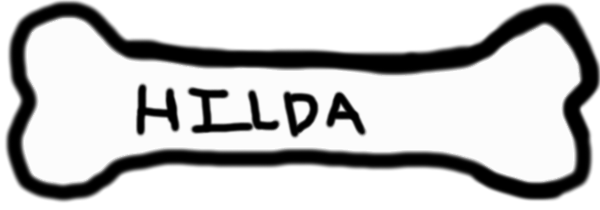
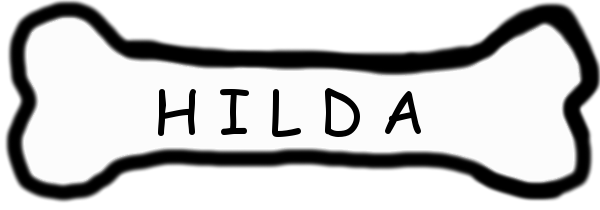
signed menu bone

Changed region(s): [[0.21, 0.4, 0.72, 0.6571]]

diff --git a/build/styles/modules.css b/build/styles/modules.css
@@ -1,0 +1,23 @@
+#nav-menu {
+  position: relative;
+  margin: 0% auto;
+  width: 70%;
+  height: 250px;
+  max-width: 100%;
+  max-height: 100%;
+  background-image: url("../assets/bone-menu-signed.png");
+  background-property: contain;
+  background-repeat: no-repeat;
+  background-size: 100% 100%;
+  margin-bottom: 2%; }
+
+.nav-button {
+  border: solid #ED32D7;
+  position: absolute;
+  font-size: 125%;
+  padding: 0 1% 0 1%; }
+
+#side-bar section {
+  margin-bottom: 2%; }
+
+/*# sourceMappingURL=modules.css.map */

diff --git a/src/styles/sass/_nav-menu.scss b/src/styles/sass/_nav-menu.scss
@@ -7,13 +7,16 @@
   height: 250px;
   max-width: 100%;
   max-height: 100%;
-  background-image: url('../assets/bone-menu.png');
+  background-image: url('../assets/bone-menu-signed.png');
   background-property: contain;
   background-repeat: no-repeat;
   background-size: 100% 100%;
+  margin-bottom: 2%;
 }
 
 .nav-button {
   border: solid $borderColor;
   position: absolute;
+  font-size: 125%;
+  padding: 0 1% 0 1%;
 }

diff --git a/build/index.html b/build/index.html
@@ -4,7 +4,7 @@
   <meta charset="utf-8"/>
   <link rel="stylesheet" type="text/css" href="./styles/vendor/skeleton.css">
   <link rel="stylesheet" type="text/css" href="./styles/base.css">
-  <link rel="stylesheet" type="text/css" href="./styles/nav-menu.css">
+  <link rel="stylesheet" type="text/css" href="./styles/modules.css">
 </head>
 <body data-ng-app="HildaApp">
 

diff --git a/src/index.html b/src/index.html
@@ -4,7 +4,7 @@
   <meta charset="utf-8"/>
   <link rel="stylesheet" type="text/css" href="./styles/vendor/skeleton.css">
   <link rel="stylesheet" type="text/css" href="./styles/base.css">
-  <link rel="stylesheet" type="text/css" href="./styles/nav-menu.css">
+  <link rel="stylesheet" type="text/css" href="./styles/modules.css">
 </head>
 <body data-ng-app="HildaApp">
 

diff --git a/build/directives/templates/side-bar.html b/build/directives/templates/side-bar.html
@@ -1,4 +1,4 @@
-<div class="three columns" style="margin-left:2%">
+<div id="side-bar" class="three columns" style="margin-left:2%">
   <span>
     <section data-ng-click="navCtrl.NavService.go('squirrel-tracker')">
       report a squirrel

diff --git a/src/directives/templates/side-bar.html b/src/directives/templates/side-bar.html
@@ -1,4 +1,4 @@
-<div class="three columns" style="margin-left:2%">
+<div id="side-bar" class="three columns" style="margin-left:2%">
   <span>
     <section data-ng-click="navCtrl.NavService.go('squirrel-tracker')">
       report a squirrel

diff --git a/build/styles/base.css b/build/styles/base.css
@@ -8,9 +8,6 @@ main {
 section {
   border: solid #ED32D7;
   background-color: rgba(255, 255, 255, 0.5);
-  margin-top: 2%; }
-
-.nav-button {
-  border: solid #ED32D7; }
+  margin-bottom: 2%; }
 
 /*# sourceMappingURL=base.css.map */

diff --git a/src/styles/sass/base.scss b/src/styles/sass/base.scss
@@ -12,10 +12,5 @@ main {
 section {
   border: solid $borderColor;
   background-color: rgba(255, 255, 255, .5);
-  margin-top: 2%;
-}
-
-
-.nav-button {
-  border: solid $borderColor;
+  margin-bottom: 2%;
 }

diff --git a/src/styles/sass/_side-bar.scss b/src/styles/sass/_side-bar.scss
@@ -1,0 +1,7 @@
+#side-bar {
+
+  section {
+    margin-bottom: 2%;
+  }
+
+}

diff --git a/src/styles/sass/modules.scss b/src/styles/sass/modules.scss
@@ -1,0 +1,2 @@
+@import 'nav-menu';
+@import 'side-bar';
